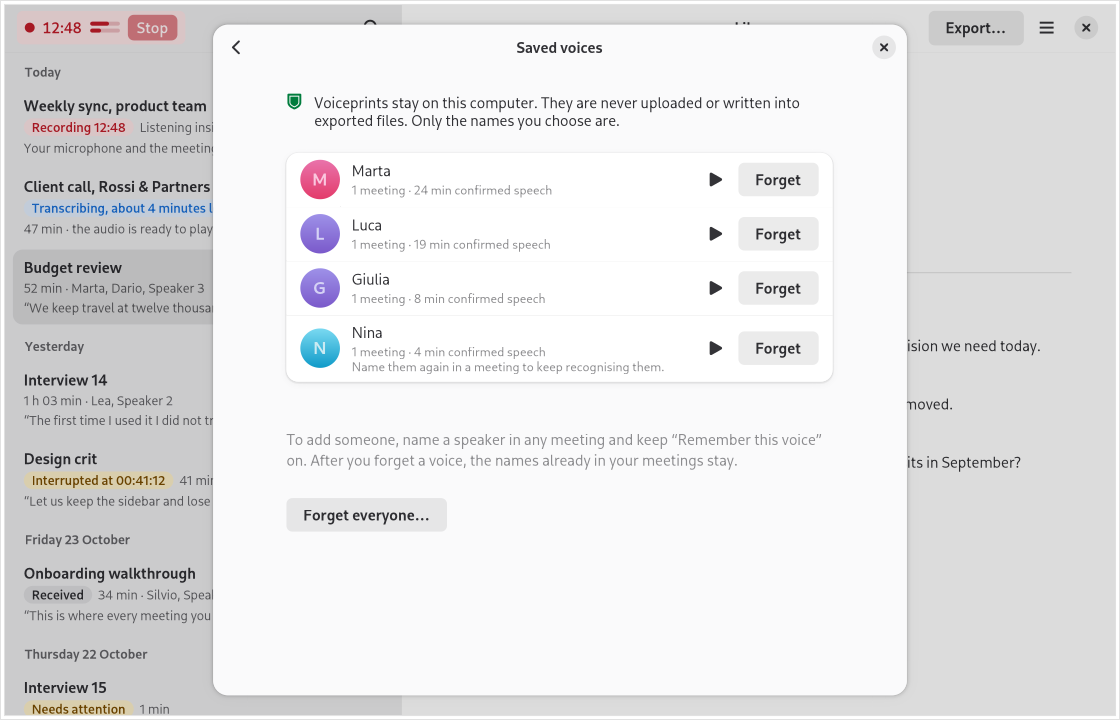
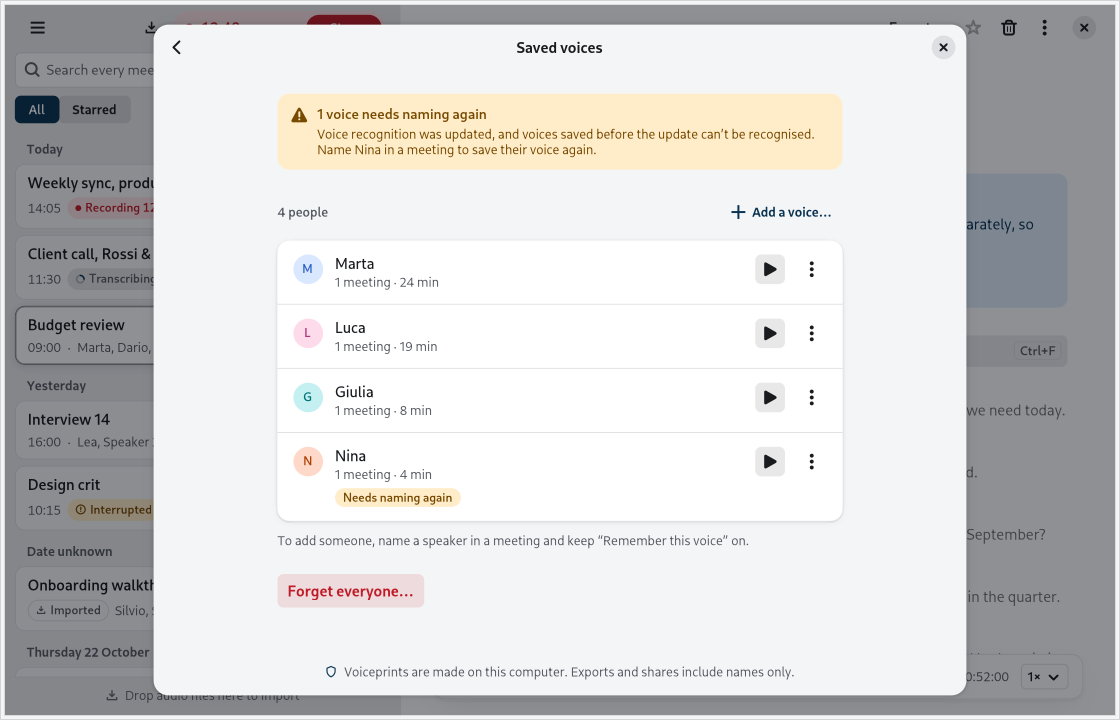
docs: refresh README screenshots and copy, index and archive docs (D-1143)
- Replace the README screenshots (last refreshed 2026-10-29, before the
  0.4.3 redesign) with the current ux-boards from main's CI run, and
  update README copy that drifted from the shipped UI: v0.4.3 release,
  Before you record dialog, Transcribe button, Imported badge, Import
  audio… menu item, transcribe-while-recording default (D111), header
  Export button, speaker names under the title, search field.
- Drop two orphaned screenshots no document references.
- Add docs/README.md indexing every technical doc and explaining how to
  refresh the README screenshots from CI boards.
- Move dated audits, spikes, review records and CI baselines to
  docs/archive/ and fix their relative links.
- CONTRIBUTING: make lint also runs the brand-token check.

diff --git a/README.md b/README.md
@@ -13,7 +13,7 @@ Cassini is a GNOME desktop app for Linux that records your meetings, writes them
 - Read a meeting while you listen, with each word highlighted as it plays and any word clickable to play from that moment.
 - Name speakers in a meeting, remember their voice on this computer so future meetings name them automatically, listen to a short voice sample before naming, merge speakers who are the same person, and undo a merge if needed.
 - Search every meeting for a phrase and filter results by speaker, date, or meetings you recorded yourself.
-- Open Cassini `.opus` files from elsewhere on your computer to keep a copy in your Library as a **Received** meeting.
+- Open Cassini `.opus` files from elsewhere on your computer to keep a copy in your Library as an **Imported** meeting.
 - Export any meeting to share or back up, as a portable Cassini `.opus` audio file, as Markdown, or (under More formats) as plain text or SRT/WebVTT subtitles.
 - Record calls in Chrome, Chromium, Edge, or Brave so each person in the call is kept apart in the transcript.
 
@@ -21,7 +21,7 @@ Cassini is a GNOME desktop app for Linux that records your meetings, writes them
 
 ### Install
 
-Packages are on the [Releases page](https://github.com/codemyriad/cassini-gnome/releases). The latest release, [v0.4.0](https://github.com/codemyriad/cassini-gnome/releases/tag/v0.4.0), has `.deb` packages for Ubuntu 26.04 and Debian testing, Fedora and openSUSE Tumbleweed `.rpm` packages and an Arch package. There is no Flatpak release for now. You can also download test packages built from `main` on each successful [CI run](https://github.com/codemyriad/cassini-gnome/actions/workflows/ci.yml?query=branch%3Amain) (a GitHub account is needed to download them), or build from source ([CONTRIBUTING.md](CONTRIBUTING.md)).
+Packages are on the [Releases page](https://github.com/codemyriad/cassini-gnome/releases). The latest release, [v0.4.3](https://github.com/codemyriad/cassini-gnome/releases/tag/v0.4.3), has `.deb` packages for Ubuntu 26.04 and Debian testing, Fedora and openSUSE Tumbleweed `.rpm` packages and an Arch package. There is no Flatpak release for now. You can also download test packages built from `main` on each successful [CI run](https://github.com/codemyriad/cassini-gnome/actions/workflows/ci.yml?query=branch%3Amain) (a GitHub account is needed to download them), or build from source ([CONTRIBUTING.md](CONTRIBUTING.md)).
 
 Native packages need GTK 4.18 and libadwaita 1.8 or newer (Debian testing, Ubuntu 26.04, Fedora 43 and later, openSUSE Tumbleweed, and Arch Linux). The Fedora package is built for Fedora 44 (Python 3.14) until ONNX Runtime publishes Python 3.15 packages, so Fedora 45 has no package yet. Older distributions (Debian 13, Ubuntu 24.04, openSUSE Leap, and RHEL) have no package either; the Flatpak test bundle built from `main` runs there. The test packages built from `main` are for 64-bit Intel and AMD (`x86_64`) computers: `.deb` packages for Ubuntu 26.04 and Debian testing, Fedora and openSUSE RPMs, an Arch package, and the Flatpak.
 
@@ -59,19 +59,19 @@ Native packages need GTK 4.18 and libadwaita 1.8 or newer (Debian testing, Ubunt
 
 ![The Library before your first meeting](docs/screenshots/first-run.png)
 
-*The Library before your first meeting.*
+*The Library before your first meeting, with the folder where your meetings will be kept.*
 
 Press **Record** in the Library (or press `Ctrl+R` anywhere in Cassini). Cassini starts recording your microphone and this computer's sound (the others) together, straight into the Library, without asking where to save a file. If you have set up the browser companion and a browser meeting is open, **Record** records that browser meeting instead.
 
-![The Before your first recording card](docs/screenshots/record-first.png)
+![The Before you record dialog](docs/screenshots/record-first.png)
 
-*The Before your first recording card shown the first time you press Record.*
+*The Before you record dialog shown the first time you press Record.*
 
-The first time you record, a **Before your first recording** card reminds you that you are responsible for telling the people you record and explains what will be recorded. Choose **Don't show again** to hide the card next time (you can turn it back on any time in **Preferences** > **Recording**). Your desktop may also ask you to allow Cassini to use your microphone.
+The first time you record, a **Before you record** dialog reminds you to tell the people you record and explains what will be recorded. If you are not sure Cassini hears both your microphone and this computer's sound, press **Test** to record 8 seconds and play them back; the test is then deleted. Choose **Don’t show again** to hide the dialog next time (you can turn it back on any time in **Preferences** > **Recording**). Your desktop may also ask you to allow Cassini to use your microphone.
 
 ![The Recording page during a sample meeting](docs/screenshots/recording.png)
 
-*The Recording page during a sample meeting, with a silent-microphone warning and a time-pinned note.*
+*The Recording page during a sample browser meeting, with a silent-microphone warning.*
 
 While recording, the Recording page shows a large timer, live sound levels for your microphone and the others, an editable **Title**, and a **Notes** box. Each line you type in **Notes** is pinned to the moment you start typing it. If your microphone is silent for 20 seconds, Cassini shows a warning with a **Check** button that opens your sound settings. If a microphone or computer sound briefly stops delivering audio for a second or more, Cassini keeps the meeting's timing by recording that moment as silence, so the transcript stays in step.
 
@@ -87,11 +87,11 @@ When the meeting ends, press **Stop** on the Recording page, in the red pill in 
 
 ### Read and search your meetings
 
-![A sample meeting open for reading and playback](docs/screenshots/meeting.png)
+![A sample meeting being written down while its audio plays](docs/screenshots/meeting.png)
 
-*A meeting page with a sample meeting.*
+*A sample meeting being written down, with its audio ready to play.*
 
-When a recording stops, Cassini writes it down automatically on this computer, offline. The Library shows progress and an estimate of the time left. If you close Cassini, it continues next time you open the app; if writing down fails, press **Try again**. Older recordings and Received meetings without a transcript have a **Write it down** button. Writing down is available on `x86_64` (64-bit Intel and AMD) computers in both the native packages and the Flatpak; on other computers, the **Write it down** button is hidden.
+Cassini writes each meeting down automatically on this computer, offline. It starts while you are still recording and finishes after you stop, and the Library shows progress and an estimate of the time left. If you close Cassini, it continues next time you open the app; if writing down fails, press **Try again**. Older recordings and imported meetings without a transcript have a **Transcribe** button. Writing down is available on `x86_64` (64-bit Intel and AMD) computers in both the native packages and the Flatpak; on other computers, the **Transcribe** button is hidden.
 
 ![Preferences open to the Transcription tab](docs/screenshots/settings.png)
 
@@ -100,15 +100,15 @@ When a recording stops, Cassini writes it down automatically on this computer, o
 Open **Preferences** from the main menu or with `Ctrl+,` to see the **Recording**, **Transcription**, **Library**, and **Browser companion** tabs. In **Transcription**:
 
 - **Writing down what was said**: **Whistle** (16 MB) is the included starter, so you can transcribe right away without a download. It supports English, German, French, Spanish, Italian, Dutch, and Polish. **Parakeet Ultra** is recommended for more accurate transcripts (444 MB download, 25 European languages). Once downloaded and verified, it is used automatically for new meetings unless you choose Whistle. On supported computers with at least 8 GB RAM and enough disk space, Cassini suggests the download in Preferences and after your first successful Whistle transcription; **Not now** dismisses the suggestion. Meetings already written down keep their transcript. Whistle stays available as a fallback, and removing Parakeet Ultra leaves existing transcripts and speaker names unchanged.
-- **Speakers**: Without extra speaker models, a meeting recorded from your microphone and computer sound attributes words to **Me** and **The others** (while browser recordings already keep each participant apart as **Speaker 1**, **Speaker 2**, and so on). Download **Tell speakers apart** (Nemotron, 62 MB download) to separate voices that share a microphone or computer sound source: once **On**, it labels each voice as **Speaker 1**, **Speaker 2**, and so on in meetings written down from then on, leaving existing transcripts as they are. Below it, **Recognise saved voices** (26 MB download) can be downloaded once **Tell speakers apart** is **On**: when **On**, Cassini names people you saved in meetings written down from then on. Below it, a **Saved voices** row shows how many people are saved and opens the **Saved voices** page.
+- **Speakers**: Without extra speaker models, a meeting recorded from your microphone and computer sound attributes words to **Me** and **The others** (while browser recordings already keep each participant apart as **Speaker 1**, **Speaker 2**, and so on). Download **Tell speakers apart** (Nemotron, 62 MB download) to separate voices that share a microphone or computer sound source: once **On**, it labels each voice as **Speaker 1**, **Speaker 2**, and so on in meetings written down from then on, leaving existing transcripts as they are. Below it, **Recognise saved voices** (26 MB download) can be downloaded once **Tell speakers apart** is **On**: when **On**, Cassini names people you saved in meetings written down from then on. **Remember people I name** sets whether **Remember this voice** starts on when you name a speaker. Below it, a **Saved voices** row shows how many people are saved and opens the **Saved voices** page.
 
-In the Library, meetings are grouped by day with a quote, the speakers, and a short transcript preview. You can start playback straight from the preview, or open the meeting to see each speaker's share of the conversation and read the full transcript. As the meeting plays, words are highlighted and the transcript scrolls along. Click any word to play from that moment, use the player bar to skip 10 seconds back or forward, or press `Space` to play and pause.
+In the Library, meetings are grouped by day with their time, length, speakers, and status. Press **All** or **Starred** to choose which meetings are listed. Select a meeting to read its full transcript, and use **Find in this meeting** to jump to a word. As the meeting plays, words are highlighted and the transcript scrolls along. Click any word to play from that moment, use the player bar to skip 10 seconds back or forward, or press `Space` to play and pause.
 
 ![Naming and merging a speaker in a sample meeting](docs/screenshots/speakers.png)
 
 *Naming a speaker in a sample meeting.*
 
-To name someone in a meeting, click their row in the **Speakers** sidebar (or press **Name the speakers**). Press the play button in the dialog to listen to a short sample of their voice from the meeting, type their **Name**, and press **Save name**. When you name a speaker, keep **Remember this voice on this computer** checked (it needs a few seconds of that person speaking on their own) so future meetings name them automatically when Cassini is confident. When it is less sure, the dialog lists **Saved voices, closest first** with the closest marked **Likely**, so you can pick the name. If you type a name that is already saved, Cassini asks whether it is the same person (**Same person** or **Someone else**). You can also rename **Me** and **The others**, or clear a name to return to **Speaker 1**, **Speaker 2**, and so on. A name recognised automatically can be changed or cleared like any other, and a name you clear stays cleared: Cassini does not put it back. If one person was split into two speakers, choose **Merge into…** and pick the other speaker to combine their turns; to undo the last merge, open the meeting menu (the three-dots button in the meeting header) and choose **Undo merge**. Merging and undoing a merge keep saved voices up to date. Speaker names and merges apply everywhere in Cassini, including the Library, **Search every meeting**, and exported files.
+To name someone in a meeting, click their name under the meeting title (or choose **Name the speakers** in the meeting menu). Press the play button in the dialog to listen to a short sample of their voice from the meeting, type their **Name**, and press **Save name**. When you name a speaker, keep **Remember this voice** on (it needs a few seconds of that person speaking on their own) so future meetings name them automatically when Cassini is confident. When it is less sure, the dialog lists **Saved voices, closest first** with the closest marked **Likely**, so you can pick the name. If you type a name that is already saved, Cassini asks whether it is the same person (**Same person** or **Someone else**). You can also rename **Me** and **The others**, or clear a name to return to **Speaker 1**, **Speaker 2**, and so on. A name recognised automatically can be changed or cleared like any other, and a name you clear stays cleared: Cassini does not put it back. If one person was split into two speakers, choose **Merge into…** and pick the other speaker to combine their turns; to undo the last merge, open the meeting menu (the three-dots button in the meeting header) and choose **Undo merge**. Merging and undoing a merge keep saved voices up to date. Speaker names and merges apply everywhere in Cassini, including the Library, **Search every meeting**, and exported files.
 
 ![The Saved voices page with sample voices](docs/screenshots/saved-voices.png)
 
@@ -120,17 +120,17 @@ To name someone in a meeting, click their row in the **Speakers** sidebar (or pr
 
 *Search every meeting with sample meetings.*
 
-To find something across all of your meetings, press the magnifier in the Library or press `Ctrl+F` to open **Search every meeting**. Type a phrase to find every matching moment. You can narrow results by **Speaker** (when a meeting has named speakers), by date (**Today**, **Past 7 days**, or **Past 30 days**), and with **Recorded by me**. Each result shows the words around the match: press **Play from** to listen right there, or **Open the meeting here** to jump to that point in the full transcript. Filters reset when you close Search. The search index is private, kept in Cassini's cache folder, and never written into your Library.
+To find something across all of your meetings, click the **Search every meeting** field at the top of the Library or press `Ctrl+F`. Type a phrase to find every matching moment. You can narrow results by **Speaker** (when a meeting has named speakers), by date (**Today**, **Past 7 days**, or **Past 30 days**), with **Starred**, and with **Recorded by me**. Each result shows the words around the match: press **Play from** (followed by the time) to listen right there, or **Open the meeting here** to jump to that point in the full transcript. Filters reset when you close Search. The search index is private, kept in Cassini's cache folder, and never written into your Library.
 
 ### Open meetings you receive
 
-![A sample Received meeting in the Library](docs/screenshots/received.png)
+![A sample imported meeting in the Library](docs/screenshots/received.png)
 
-*A sample meeting in the Library marked as `Received`.*
+*A sample meeting in the Library marked as **Imported**.*
 
-When someone sends you a Cassini `.opus` meeting file, you can open it by choosing **Open…** in the main menu (`Ctrl+O`), opening the file with Cassini from your file manager, or dragging and dropping it onto the Library window.
+When someone sends you a Cassini `.opus` meeting file, you can open it by choosing **Import audio…** in the main menu (`Ctrl+O`), opening the file with Cassini from your file manager, or dragging and dropping it onto the Library window. You can also import MP3, M4A, WAV, and FLAC audio, several files at once, or a ZIP archive.
 
-Cassini copies the file into your Library and marks it as **Received**. Your original file is left untouched, and the copy in your Library stays even if you move or delete the original. Opening the same file a second time opens the existing copy instead of creating a duplicate.
+Cassini copies the file into your Library and marks it as **Imported**. Your original file is left untouched, and the copy in your Library stays even if you move or delete the original. Opening the same file a second time opens the existing copy instead of creating a duplicate.
 
 ### Export a meeting
 
@@ -138,7 +138,7 @@ Cassini copies the file into your Library and marks it as **Received**. Your ori
 
 *The Export dialog over a sample meeting.*
 
-To share a meeting or back it up elsewhere, press **Export…** in the Library header, in the meeting header, or in the main menu (or press `Ctrl+Shift+E`). You can choose:
+To share a meeting or back it up elsewhere, press **Export** in the meeting header or choose **Export…** in the meeting menu (or press `Ctrl+Shift+E`). To export every meeting at once, choose **Export All as ZIP…** in the main menu. You can choose:
 
 - **Cassini file**: a `.opus` audio file with the transcript, speakers, and notes inside, which plays in any audio player.
 - **Markdown**: the transcript as a plain text `.md` file with speakers, times, and your notes.
@@ -152,13 +152,13 @@ Cassini saves exported files to your **Documents** folder unless you choose anot
 
 ![Setting up the browser companion inside Cassini](docs/screenshots/companion-setup.png)
 
-*The two-step browser companion setup dialog.*
+*The two-step browser companion setup dialog, with both steps done.*
 
 In **Chrome**, **Chromium**, **Edge**, and **Brave**, Cassini can record calls directly from your browser so each person in the call is heard on their own and kept apart as **Speaker 1**, **Speaker 2**, and so on. Browser recording works in both the native packages and the Flatpak.
 
 You set up the browser companion from inside Cassini—open **Preferences** (`Ctrl+,`) > **Browser companion** and press **Set up**, press **Set up** on the suggestion card in a meeting, or press **Add Cassini to your browser** on the empty Library screen before your first recording. Setup is per user, for your own browser profiles, and never system-wide:
 
-1. **Add Cassini to your browser**: press **Add** to open the Cassini Recorder page in the Chrome Web Store. *(The Chrome Web Store listing is not public yet; the extension will be available there with the next release. For local builds and developer testing before then, see the [browser companion guide](browser-extension/README.md).)*
+1. **Add Cassini to your browser**: press **Add to Chrome** (or your browser) to open the Cassini Recorder page in the Chrome Web Store. *(The Chrome Web Store listing is not public yet; the extension will be available there with the next release. For local builds and developer testing before then, see the [browser companion guide](browser-extension/README.md).)*
 2. **Let the browser talk to Cassini**: press **Connect**. One click connects every supported browser installed on this computer (**Chrome**, **Chromium**, **Edge**, and **Brave**). When Cassini and the browser are connected, press **Done**.
 
 Once connected, pressing **Record** in Cassini records every browser meeting that is currently open, saving each call as its own meeting in your Library. You can stop a call from its Recording page, or hang up the call in your browser to stop and save it automatically; pressing **Stop** in the Library header pill, in the desktop notification, or with `Ctrl+Alt+R` stops all active recordings.
@@ -173,7 +173,7 @@ Cassini stores your Library in `Music/Cassini` inside your home folder (`~/Music
 
 Everything happens on this computer: recording, writing meetings down offline, telling speakers apart, recognising saved voices, and searching across your Library. Cassini only uses the network when you ask it to download an optional speech or speaker model in **Preferences** > **Transcription**. There is no account, no cloud service, and nothing is uploaded. **Export** is the only way a meeting leaves this computer, and only when you choose. Voiceprints stay on this computer, in Cassini's own private data folder, not in the Library. They are never uploaded and never written into exported files; only the names you choose are.
 
-Exported and Received [portable meetings](https://format.gocassini.com/) are ordinary `.opus` audio files that carry their transcript, speakers, and notes inside the file itself, and play in any audio player.
+Exported and imported [portable meetings](https://format.gocassini.com/) are ordinary `.opus` audio files that carry their transcript, speakers, and notes inside the file itself, and play in any audio player.
 
 ## Help and feedback
 

diff --git a/docs/README.md b/docs/README.md
@@ -1,0 +1,87 @@
+# Cassini for GNOME: technical documentation
+
+These pages describe how the GNOME app implements shared Cassini behaviour.
+The user guide is the top-level [README](../README.md); building, testing and
+packaging are in [CONTRIBUTING.md](../CONTRIBUTING.md). Cross-app contracts,
+decisions (D-numbers) and the shared string catalog live in
+`codemyriad/cassini-ux`; the vendored copies are under `ux/` and `tests/ux/`.
+
+## Recording
+
+- [recording-comfort.md](recording-comfort.md): the Recording page and recording with Cassini hidden.
+- [background-recording.md](background-recording.md): background recording (D35.3).
+- [verified-auto-admission.md](verified-auto-admission.md): verified automatic recording admission (D80).
+- [native-capture-clock.md](native-capture-clock.md): native capture clock and dropout silence.
+- [d52-source-ownership.md](d52-source-ownership.md), [d52-source-grouping.md](d52-source-grouping.md), [d52-capture-record.md](d52-capture-record.md): audio sources, source changes and source diagnostics (D52).
+- [recording-details-draft.md](recording-details-draft.md): the Recording details dialog (D28 Part A).
+- [spectrogram-progress.md](spectrogram-progress.md): live spectrogram and progress (D36.1).
+- [d95-meeting-time.md](d95-meeting-time.md): meeting time (D95).
+
+## Browser companion
+
+- [browser-recording-protocol.md](browser-recording-protocol.md): the browser recording protocol.
+- [call-lifecycle.md](call-lifecycle.md): browser call lifetime (D33).
+- [local-browser-companion.md](local-browser-companion.md): local browser companion setup (D39/D39.1).
+- [setup-responsiveness.md](setup-responsiveness.md): companion clicks and playback speed.
+- See also [browser-extension/README.md](../browser-extension/README.md).
+
+## Transcription and speakers
+
+- [transcription.md](transcription.md): bundled meeting transcription (UX13).
+- [parakeet.md](parakeet.md): the Parakeet Ultra engine (D16).
+- [models.md](models.md): model download core (D4/D15).
+- [recognition-threads.md](recognition-threads.md): recognition thread headroom (D92), with receipts in [evidence/](evidence/).
+- [silero-input-filter.md](silero-input-filter.md): DC-robust speech detection.
+- [diarization.md](diarization.md): optional speaker diarization (D24).
+- [speakers.md](speakers.md): naming and merging speakers (UX16).
+- [SAVED-VOICES.md](SAVED-VOICES.md): saved voices implementation and validation.
+- [voice-preparation.md](voice-preparation.md): preparing voices for older meetings.
+
+## Library, reading and search
+
+- [ux-library-model.md](ux-library-model.md): the Library model (D6/D6.1, S-3a).
+- [exact-transcript.md](exact-transcript.md): the exact transcript renderer on the Meeting page.
+- [transcript-quotes.md](transcript-quotes.md): turn quotation marks and inline interjections (D38.5), with [screenshots](screenshots/interjections/).
+- [search.md](search.md): Search every meeting.
+- [meeting-rename.md](meeting-rename.md): renaming a saved meeting (D35.2).
+- [move-to-trash.md](move-to-trash.md): Move to Trash (D29).
+- [library-move-pairs.md](library-move-pairs.md): moving a published meeting.
+- [import-export.md](import-export.md): import and single-meeting export (W4-2, L-11).
+- [preferences.md](preferences.md): the Preferences window (D15).
+- [gnome-journey-parity.md](gnome-journey-parity.md): GNOME user journeys (D37).
+
+## Localization
+
+- [localization.md](localization.md): localization (D50–D50.3).
+- [i18n-glossary.md](i18n-glossary.md): translation glossary.
+
+## Build, CI and release
+
+- [ci.md](ci.md): CI orchestration and reuse (D20).
+- [installed-builds.md](installed-builds.md): installed build checks.
+- [ux-screenshot-spike.md](ux-screenshot-spike.md): rendering the real window to PNG with `build-aux/ux-screenshot.sh`.
+- [test-timing-inventory.md](test-timing-inventory.md): test timing inventory (D88), generated by `build-aux/ci/inventory_test_timing.py`.
+- [release-notes.md](release-notes.md): writing release notes.
+
+## Screenshots
+
+[screenshots/](screenshots/) holds the images used by the top-level README.
+They are copies of the CI UX boards (the `ux-boards` artifact of the
+`CI` workflow on `main`, rendered by `build-aux/ux-boards.sh` and the
+`tests/ui/` scripts from synthetic fixtures). To refresh them, download that
+artifact from a green `main` run and copy the matching boards:
+
+| README image | Board |
+|---|---|
+| `library.png`, `first-run.png`, `record-first.png`, `recording.png`, `meeting.png`, `speakers.png`, `saved-voices.png`, `search.png`, `received.png`, `export.png` | same name |
+| `settings.png` | `settings-transcription.png` |
+| `what-is-recorded.png` | `what-is-recorded-browser.png` |
+| `companion-setup.png` | `companion-setup-connected.png` |
+
+## Archive
+
+[archive/](archive/) keeps dated audits, spikes and review records that are
+no longer current but are still cited from pull requests and decisions:
+the 2026-11-11 CI timing and parity audits, the PR6 Library review
+disposition, the D52 wave 1 review requests, the Whistle bundling spike, and
+CI timing baselines. Do not update them; write a new document instead.

diff --git a/docs/archive/whistle-spike.md b/docs/archive/whistle-spike.md
@@ -27,7 +27,7 @@ tests/whistle/run.sh "$PWD/_stage/usr/share/cassini-talk/whistle" /tmp/whistle-r
 ```
 
 (The spike's separate `whistle/meson.build` project is now the main
-project's `whistle` subdirectory; see [transcription.md](transcription.md).)
+project's `whistle` subdirectory; see [transcription.md](../transcription.md).)
 
 The harness builds a small Ubuntu image, then runs with `--network none`, a
 read-only filesystem, no capabilities, private temporary storage, and read-only
@@ -60,7 +60,7 @@ child. Unit tests exercise two requests, partial-line timeout and crash cleanup.
 ## Packaging handoff to the coordinator
 
 Done: every package now bundles the engine; see the "Packaging" section of
-[transcription.md](transcription.md) and CONTRIBUTING.md. The original handoff
+[transcription.md](../transcription.md) and CONTRIBUTING.md. The original handoff
 notes follow.
 
 No existing packaging manifest is changed by this spike. The separate
@@ -80,6 +80,6 @@ pinned engine is independently tested. No package dependency or launcher change
 is necessary merely to run this spike; app integration remains UX13.
 
 The full UX13 implementation and updated packaging handoff are now described in
-[transcription.md](transcription.md), including bundled Silero and NumPy/ORT CPU
+[transcription.md](../transcription.md), including bundled Silero and NumPy/ORT CPU
 runtime dependencies. The worker also accepts whole-meeting pipeline requests;
 the 30-second limit above applies only to the original file-smoke-test request.

diff --git a/docs/ci.md b/docs/ci.md
@@ -198,7 +198,7 @@ reported billable usage. Per-job rounded Linux minutes are a separate resource
 estimate, not a billing invoice. Pending jobs stay explicitly incomplete.
 
 The closest standalone-workflow control is #53's final 011c693, retained in
-`ci/before-orchestrator-pr53.json`: 18 jobs, 45.217 execution minutes, 54 estimated
+`archive/ci/before-orchestrator-pr53.json`: 18 jobs, 45.217 execution minutes, 54 estimated
 rounded Linux minutes, 0 GitHub-reported billable minutes, median 148 seconds queue.
 Earlier controls (#50 and #51) remain in `ci/` for context. The orchestrator's
 final-head comparison is written to coordination `STATUS-GNOME.md` after checks

diff --git a/docs/archive/d52-review-requests.md b/docs/archive/d52-review-requests.md
@@ -28,7 +28,7 @@ counters: without ranges, adding them can double-count the same hole.
 ## R64 — overlap attribution
 
 The approved rule and literal expected IDs are in
-[d52-source-grouping.md](d52-source-grouping.md). The approved suffix is
+[d52-source-grouping.md](../d52-source-grouping.md). The approved suffix is
 `base:overlap:n`, replacing `~overlap-n` because D24/D25 reserve tilde prefixes
 for child voices. Known extents use validated metadata and scalar clock mapping;
 unknown timing never proves disjointness. No NumPy or audio I/O is needed.

diff --git a/CONTRIBUTING.md b/CONTRIBUTING.md
@@ -43,7 +43,7 @@ Layout:
 CI runs all of these on every pull request:
 
 ```sh
-make lint                   # browser-protocol/verify.py, ruff check and ruff format --check
+make lint                   # browser-protocol/verify.py, brand-token check, ruff check and ruff format --check
 pytest
 make test                   # meson test: also validates the desktop, AppStream and schema files
 make check-distros          # build and test on six distributions, in containers
